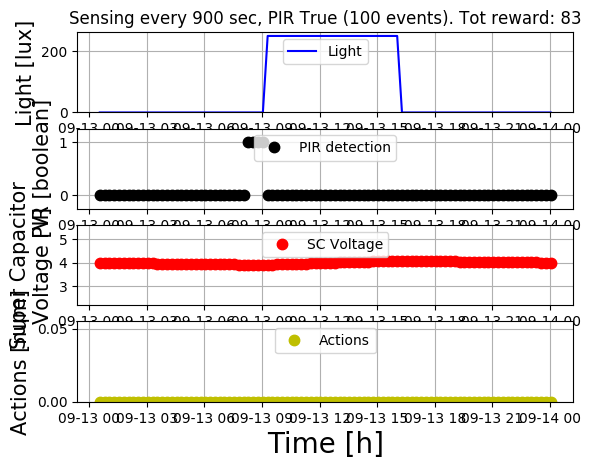
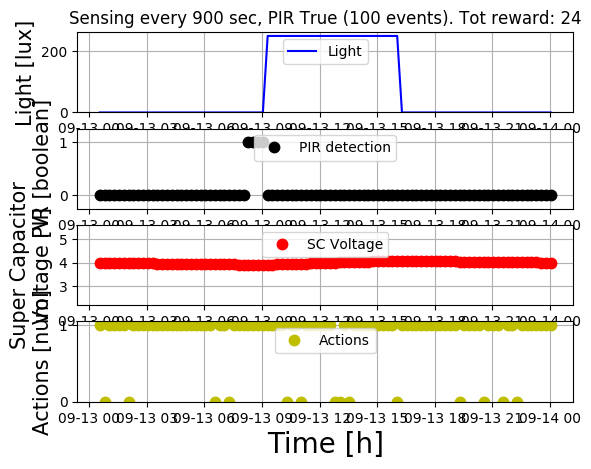
fixes

Changed region(s): [[0.0, 0.597, 0.9746, 0.9254], [0.1523, 0.8358, 0.9442, 0.8657], [0.9442, 0.0, 1.0, 0.0597]]

diff --git a/bkp_print_results.py b/bkp_print_results.py
@@ -1,0 +1,116 @@
+import glob
+import subprocess
+import ray
+from ray.rllib.agents import ddpg
+from ray.tune.registry import register_env
+from ray.rllib.agents import ppo
+from ray.rllib.agents import dqn
+from gym_envs.envs import Pible_env
+from time import sleep
+import os
+import datetime
+#import arrow
+
+#path_data = subprocess.getoutput('eval echo "~$USER"') + "/Desktop/Ray-RLlib-Pible/gym_envs/envs"
+path_data = os.getcwd()
+
+#start_time = arrow.get(2018, 4, 1, tzinfo=PT)
+#end_time = arrow.get(2018, 4, 5, tzinfo=PT)
+
+# Read data
+#observations, actions, consumptions, time_range, scalers = read_data(start_time, end_time, '2146', normalize=True)
+
+# Init exp
+from gym_envs.envs.Pible_env import pible_env_creator
+
+register_env('Pible-v2', pible_env_creator)
+Agnt = 'PPO'
+
+# Initialize action/obs
+pre_action = 0
+pre_reward = 0
+
+#assert len(observations.shape) == 2
+
+ray.init()
+
+# Detect latest folder for trainer to resume
+latest = 0
+path = subprocess.getoutput('eval echo "~$USER"')
+proc = subprocess.Popen("ls " + path + "/ray_results/" + Agnt + "/", stdout=subprocess.PIPE, shell=True)
+(out, err) = proc.communicate()
+out = out.decode()
+spl = out.strip().split('\n')
+for i in spl:
+    test = i.split('.')
+    if "json" not in test:
+        d = i.split('_')
+        date = d[4].split('-')
+        hour = d[5].split('-')
+        x = datetime.datetime(int(date[0]), int(date[1]), int(date[2]), int(hour[0]), int(hour[1]))
+        if latest == 0:
+            folder = i; time = x; latest = 1
+        else:
+            if x > time:
+                folder = i; time = x
+        
+print("folder", folder)
+
+# detect checkpoint to resume
+proc = subprocess.Popen("ls " + path + "/ray_results/" + Agnt + "/" + folder + '/', stdout=subprocess.PIPE, shell=True)
+(out, err) = proc.communicate()
+print(out)
+out = out.decode()
+spl = out.strip().split('\n')
+max = 0
+for i in spl:
+    tester = i.split('_')
+    #print(tester, len(tester), tester[1].isdigit())
+    if "checkpoint" in tester and len(tester)==2 and tester[1].isdigit():
+        if int(tester[1]) > max:
+            max = int(tester[1])
+            iteration = i
+        
+print("Found folder: ", folder, "Last checkpoint found: ", iteration)
+sleep(3)
+
+if True:
+    path = glob.glob(subprocess.getoutput('eval echo "~$USER"') + '/ray_results/' + Agnt +'/' + folder  +
+    #path = glob.glob(subprocess.getoutput('eval echo "~$USER"') + '/ray_results/DDPG/DDPG_VAV-v0_0_2019-05-10_20-02-38zocesjrb' +
+                     '/checkpoint_' + str(max) + '/checkpoint-' + str(max),
+                     recursive=True)
+    assert len(path) == 1, path
+    agent = ppo.PPOAgent(config={
+    #agent = dqn.DQNAgent(config={
+    #agent = ddpg.DDPGAgent(config={
+        "env_config": {
+         "path": path_data,
+         },
+    }, env='Pible-v2')
+    agent.restore(path[0])
+    config = {
+                "path": path_data,
+            }
+    Env = Pible_env.PibleEnv(config)
+    SC_volt = Env.reset()
+    print(SC_volt)
+    tot_rew = 0
+    while True:
+        
+        learned_action = agent.compute_action( 
+	    #observation = [SC_volt[0], SC_volt[1]],
+            observation = SC_volt,
+            prev_action = pre_action,
+            prev_reward = pre_reward
+        )
+        #learned_action = 0
+        SC_volt, reward, done, none = Env.step(learned_action)
+        print(SC_volt)
+        tot_rew += reward
+        pre_reward = reward
+        pre_action = learned_action
+        print("action learned", learned_action, "reward", reward)
+        if done:
+            break
+
+    Env.render(1, tot_rew)
